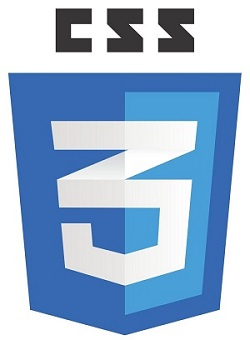
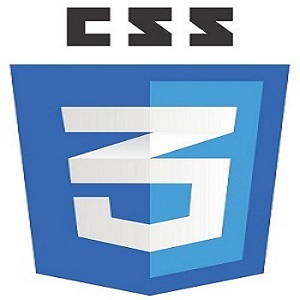
done without responsive

diff --git a/homeworks/1/index.html b/homeworks/1/index.html
@@ -32,10 +32,11 @@
     .hero {
         height: 50px;
         text-align: center;
-        padding: 20px;
+        padding:10px;
+      
     }
 
-    .title {
+    .title, .title1, .title2, .title3 {
         text-align: center;
         margin: 20px;
     }
@@ -56,21 +57,25 @@
 
     img {
         max-width: 20%;
-        margin:0 auto;
-        display:block;
-      
+        margin: 0 auto;
+        display: block;
+
     }
+
     .knowledge-info__wrapper {
         display: flex;
-        height: 550px;
+        height: 200px;
         flex-direction: row;
+        justify-content: space-between;
     }
     .knowledge-info {
         text-align: justify;
+        flex-basis: 33%;
+        padding: 50px;
     }
-    img{
-        margin:0 auto;
-    display:block;
+    .nav-container{
+        text-align: center;
+        text-decoration:none;
     }
 </style>
 
@@ -80,10 +85,19 @@
 <body background="images/tło2.jpg">
     <main class="main">
         <section class="hero">
-            <h1>Welcome on my website!</h1>
+            <h1>Trochę o mnie... i o programowaniu...</h1>
         </section>
-        <div class="title">
-            <h2>Trochę słów o mnie</h2>
+        <header class="header">
+            <nav class="nav">
+                <ul class="nav-container">
+                    <a class="menu" href="#hero">HERO</a>
+                    <a class="menu" href="#title1">O mnie</a>
+                    <a class="menu" href="#title3">Nauka</a>
+                </ul>
+            </nav>
+        </header>
+        <div class="title1">
+            <h2>Kilka słów wprowadzenia</h2>
         </div>
         <section class="about">
             <p><img src="favicon/android-chrome-192x192.png" alt="ja" class="align-right medium" />Nazywam się Magda.
@@ -95,13 +109,13 @@
                 Pamiętaj! Nie ważne jak zaczynasz, ale ważne jak kończysz!!!
             </p>
         </section>
-        <div class="title">
+        <div class="title2">
             <h2>Technologie, których się obecnie uczę</h2>
         </div>
         <section class="knowledge">
             <div class="knowledge-info__wrapper">
                 <div class="knowledge-info">
-                        <img src="images/768px-HTML5_logo_and_wordmark.svg.png" alt="git">
+                    <img src="images/768px-HTML5_logo_and_wordmark.svg.png" alt="git">
                     <div class="title">
                         <h3>HTML</h3>
                     </div>
@@ -112,32 +126,32 @@
                     </p>
                 </div>
                 <div class="knowledge-info">
-                        <img src="images/3c2aadf4b1aeffa2bc631eb2037a2496.jpg" alt="git">
+                    <img src="images/3c2aadf4b1aeffa2bc631eb2037a2496.jpg" alt="git">
                     <div class="title">
                         <h3>CSS</h3>
                     </div>
                     <div class="desc">
-                        <div class="desc">
-                            <p>język służący do opisu formy prezentacji (wyświetlania) stron WWW.
-                                CSS został opracowany przez organizację W3C w 1996 r. jako potomek
-                                języka DSSSL przeznaczony do używania w połączeniu z SGML-em.
-                                Pierwszy szkic CSS zaproponował w 1994 r. Håkon Wium Lie.</p>
-                        </div>
+                        <p>Język służący do opisu formy prezentacji (wyświetlania) stron WWW.
+                            CSS został opracowany przez organizację W3C w 1996 r. jako potomek
+                            języka DSSSL przeznaczony do używania w połączeniu z SGML-em.
+                            Pierwszy szkic CSS zaproponował w 1994 r. Håkon Wium Lie.</p>
                     </div>
-                    <div class="knowledge-info">
-                            <img src="images/c619df96a5b24d8b45d923cc19bb82b4.jpeg" alt="git">
-                        <div class="title">
-                            <h3>GIT</h3>
-                        </div>
-                        <div class="desc">
-                            <p>rozproszony system kontroli wersji. Stworzył go Linus Torvalds
-                                jako narzędzie wspomagające rozwój jądra Linux. Git stanowi
-                                wolne oprogramowanie i został opublikowany na licencji GNU GPL
-                                w wersji 2.
-                            </p>
-                        </div>
+
+                </div>
+                <div class="knowledge-info">
+                    <img src="images/c619df96a5b24d8b45d923cc19bb82b4.jpeg" alt="git">
+                    <div class="title">
+                        <h3>GIT</h3>
+                    </div>
+                    <div class="desc">
+                        <p>Rozproszony system kontroli wersji. Stworzył go Linus Torvalds
+                            jako narzędzie wspomagające rozwój jądra Linux. Git stanowi
+                            wolne oprogramowanie i został opublikowany na licencji GNU GPL
+                            w wersji 2.
+                        </p>
                     </div>
                 </div>
+            </div>
             </div>
         </section>
 
